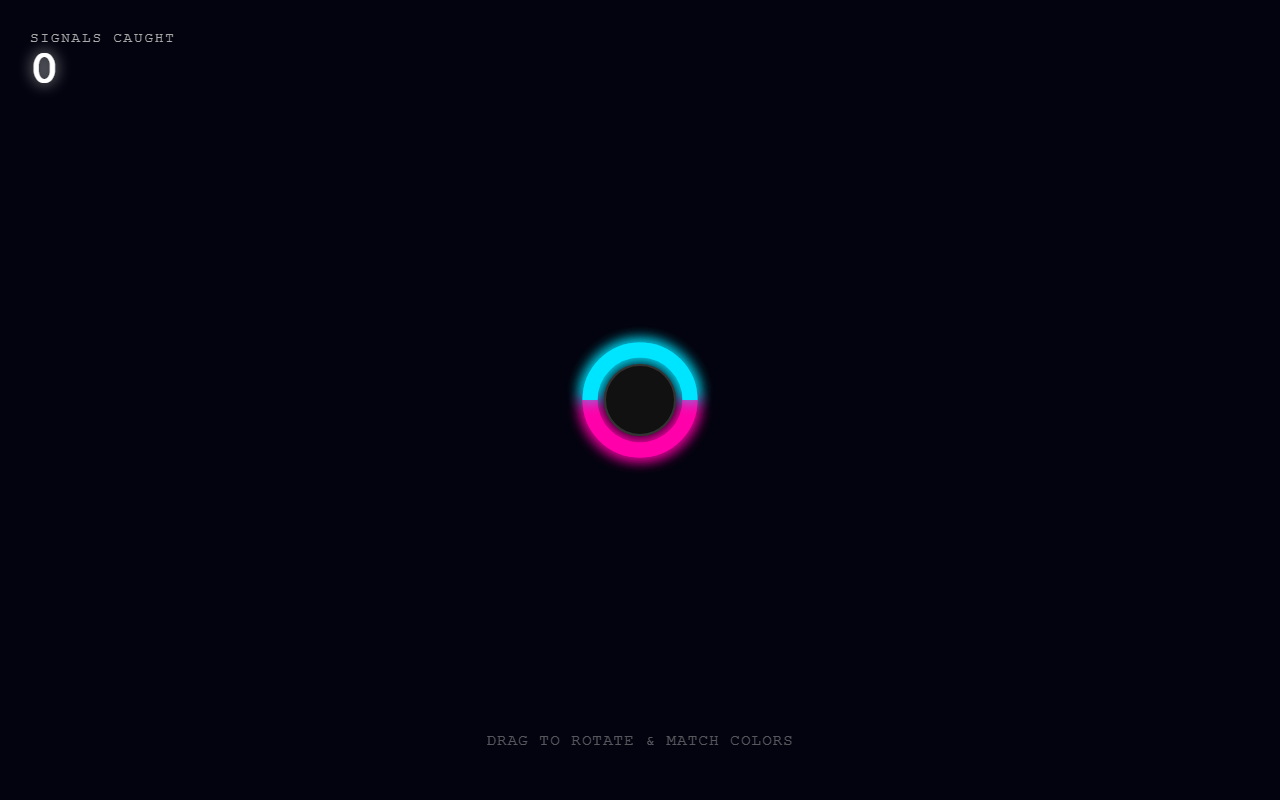
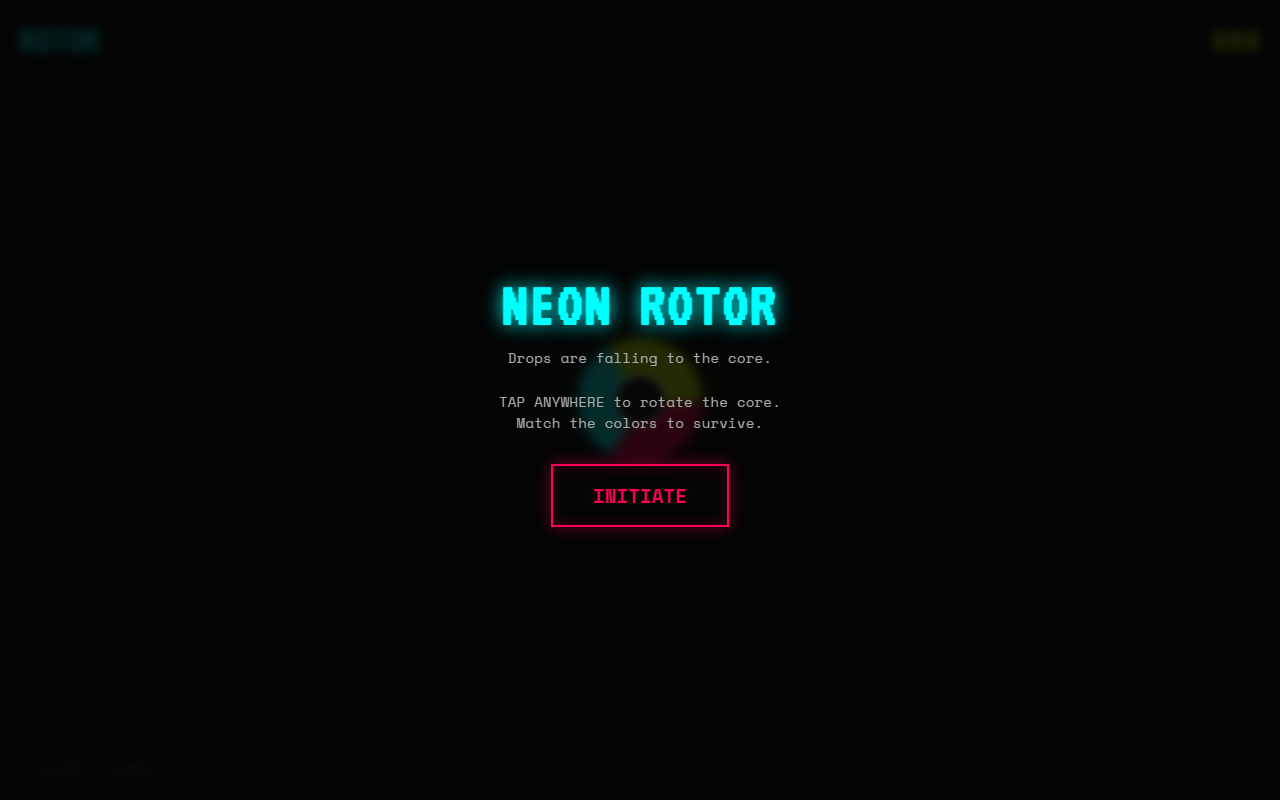
Update Fluid Optical Flow cover and cover IDs

diff --git a/assets/work-catalog.js b/assets/work-catalog.js
@@ -364,7 +364,7 @@ window.ONEZ_WORKS = [
     tags: ["Game", "Touch", "Swipe", "Physics"]
   },
   {
-    id: "neon-rotor-drop",
+    id: "neon-rotor-drop-0610",
     title: "Neon Rotor Drop",
     date: "2026-06-10",
     section: "game",
